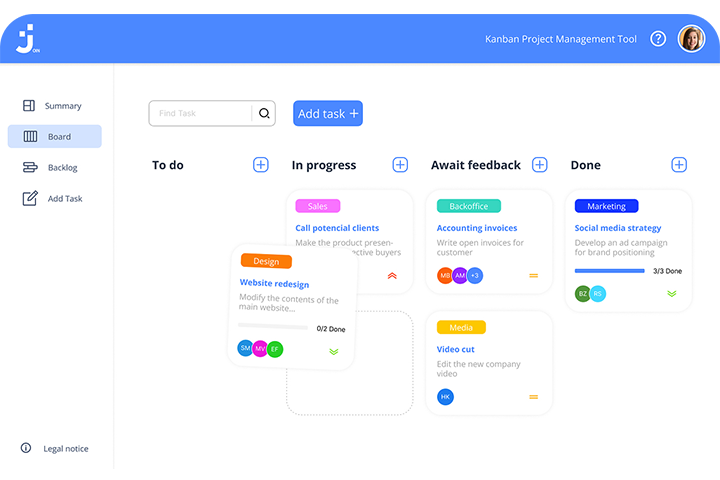
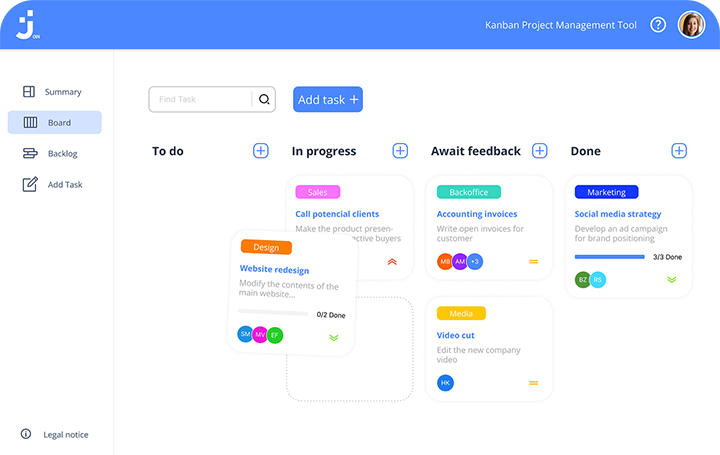
style: dialog, top-menu

diff --git a/src/scss/layout/_top-menu.scss b/src/scss/layout/_top-menu.scss
@@ -44,6 +44,11 @@ header {
     display: flex;
     align-items: center;
 
+
+    @include tablet {
+        padding-left: 16px;
+    }
+
     @include desktop {
         padding-left: 16px;
     }
@@ -88,7 +93,6 @@ header {
     @include desktop-l {
         padding-right: 16px;
     }
-
 }
 
 .hamburger {

diff --git a/src/scss/layout/_dialog.scss b/src/scss/layout/_dialog.scss
@@ -335,8 +335,8 @@ body.dialog-open {
 
 .dialog-img img {
     border-radius: 30px;
-    width: 480px;
-    height: 320px;
+    width: 520px;
+    height: auto;
 
 
     @include mobile {